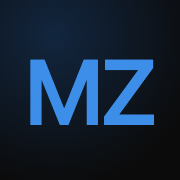
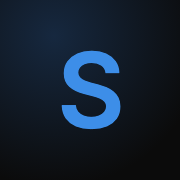
feat: update portfolio branding and content to reflect new identity as Sharfuzzaman

Changed region(s): [[0.1667, 0.2778, 0.8611, 0.7222]]

diff --git a/src/scripts/sky-engine.ts b/src/scripts/sky-engine.ts
@@ -8,7 +8,7 @@
  *   --sky-tint / -2     overlay wash the hero fades over the photo
  * It also stamps `data-sky-phase` on <html> so CSS can key off the phase.
  *
- * Location defaults to Dhaka — MS Zaman is a "web developer in Dhaka", so every
+ * Location defaults to Dhaka — Sharfuzzaman is a Dhaka-based developer, so every
  * visitor sees the sky over Dhaka. If the visitor has *already* granted
  * geolocation permission we silently upgrade to their own sky; we never prompt
  * on load. A UI control can call requestVisitorLocation() to ask explicitly.

diff --git a/README.md b/README.md
@@ -1,4 +1,4 @@
-# MS Zaman — Frontend Developer Portfolio
+# Sharfuzzaman — WordPress Developer Portfolio
 
 A time- and weather-aware single-page portfolio with a WebGL "Sky" hero, built
 with Astro and a small amount of React.
